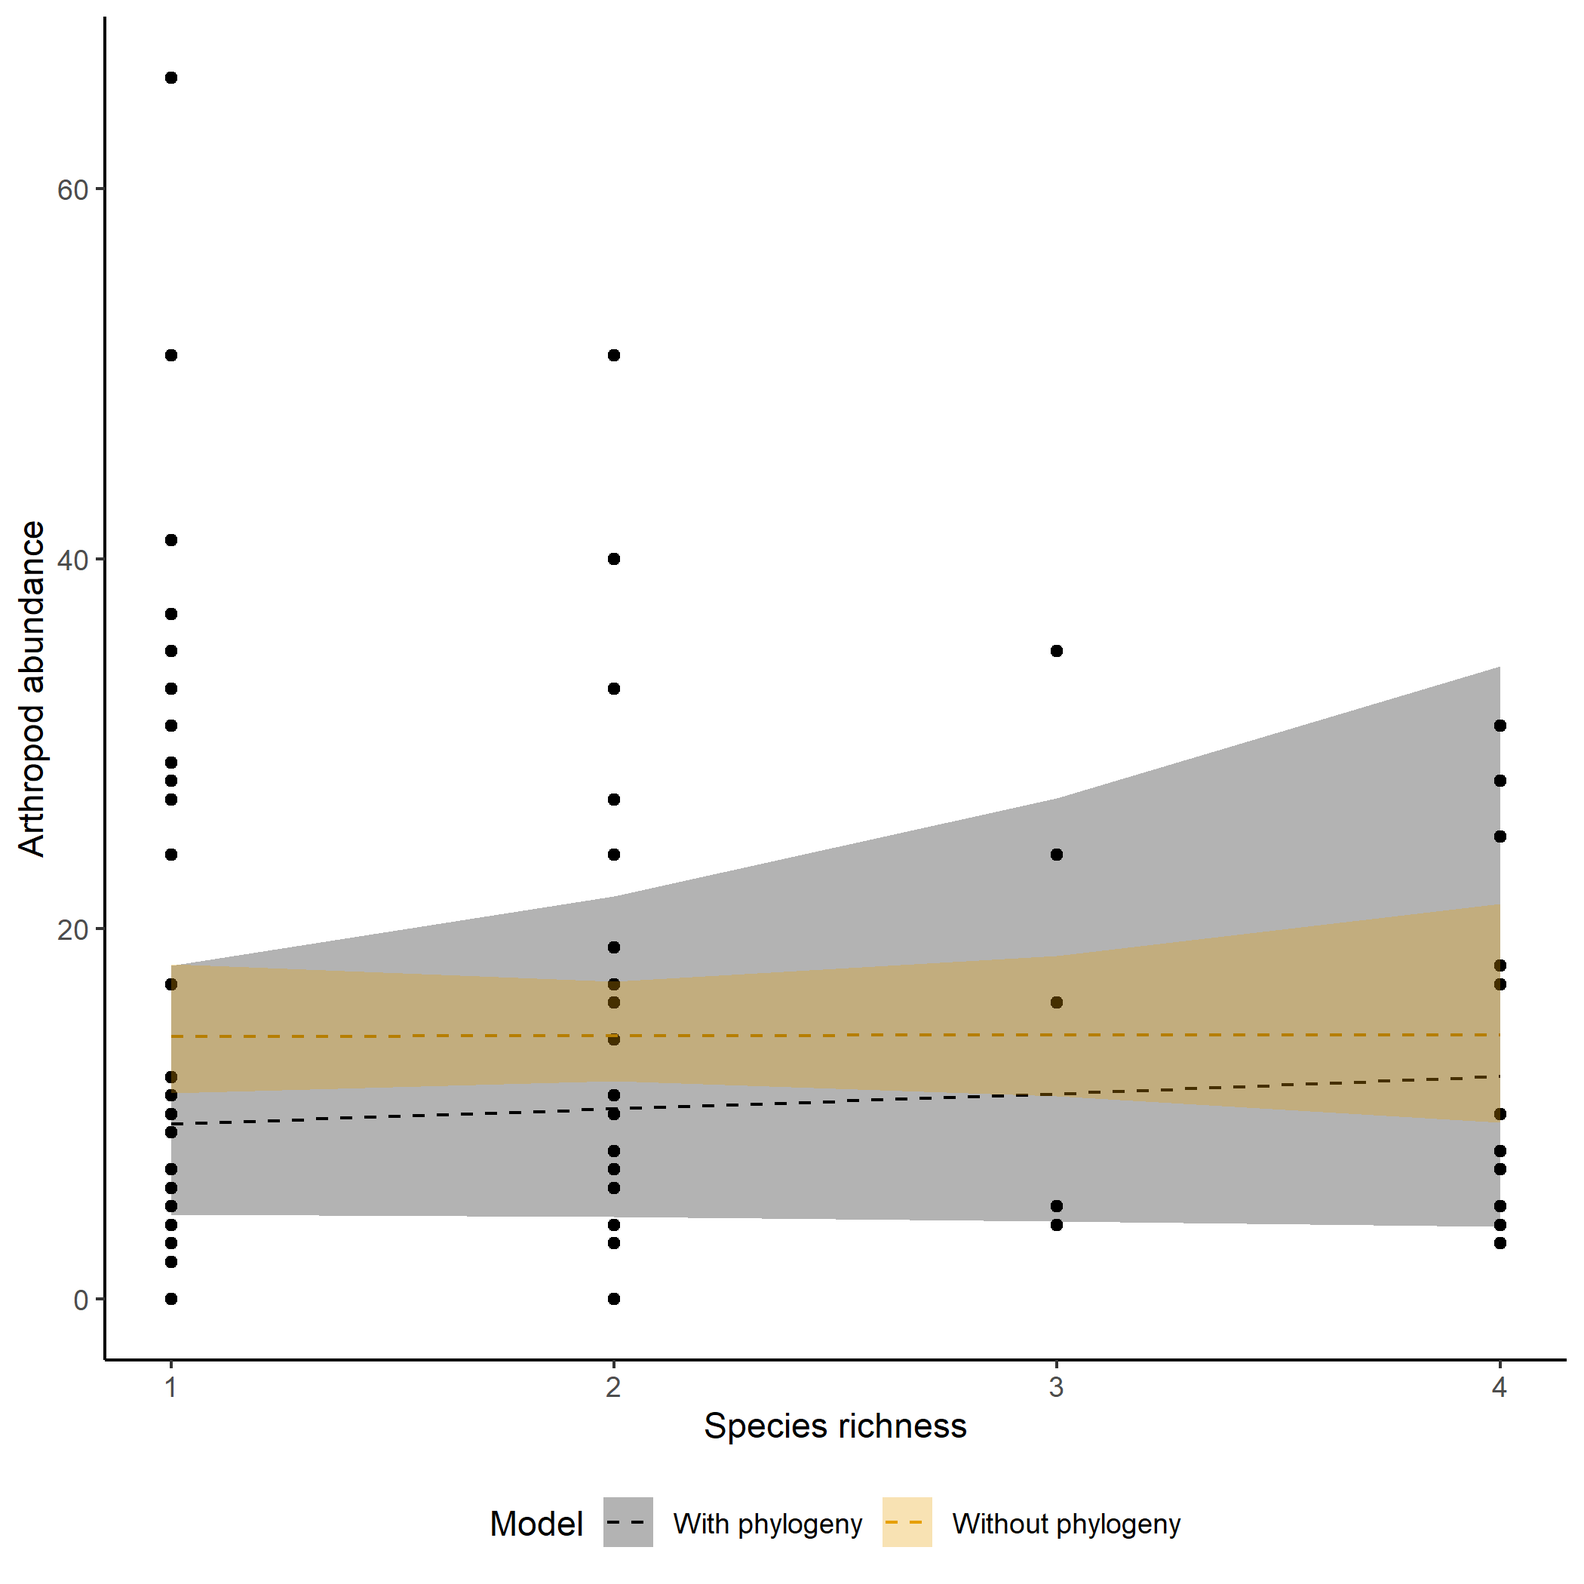
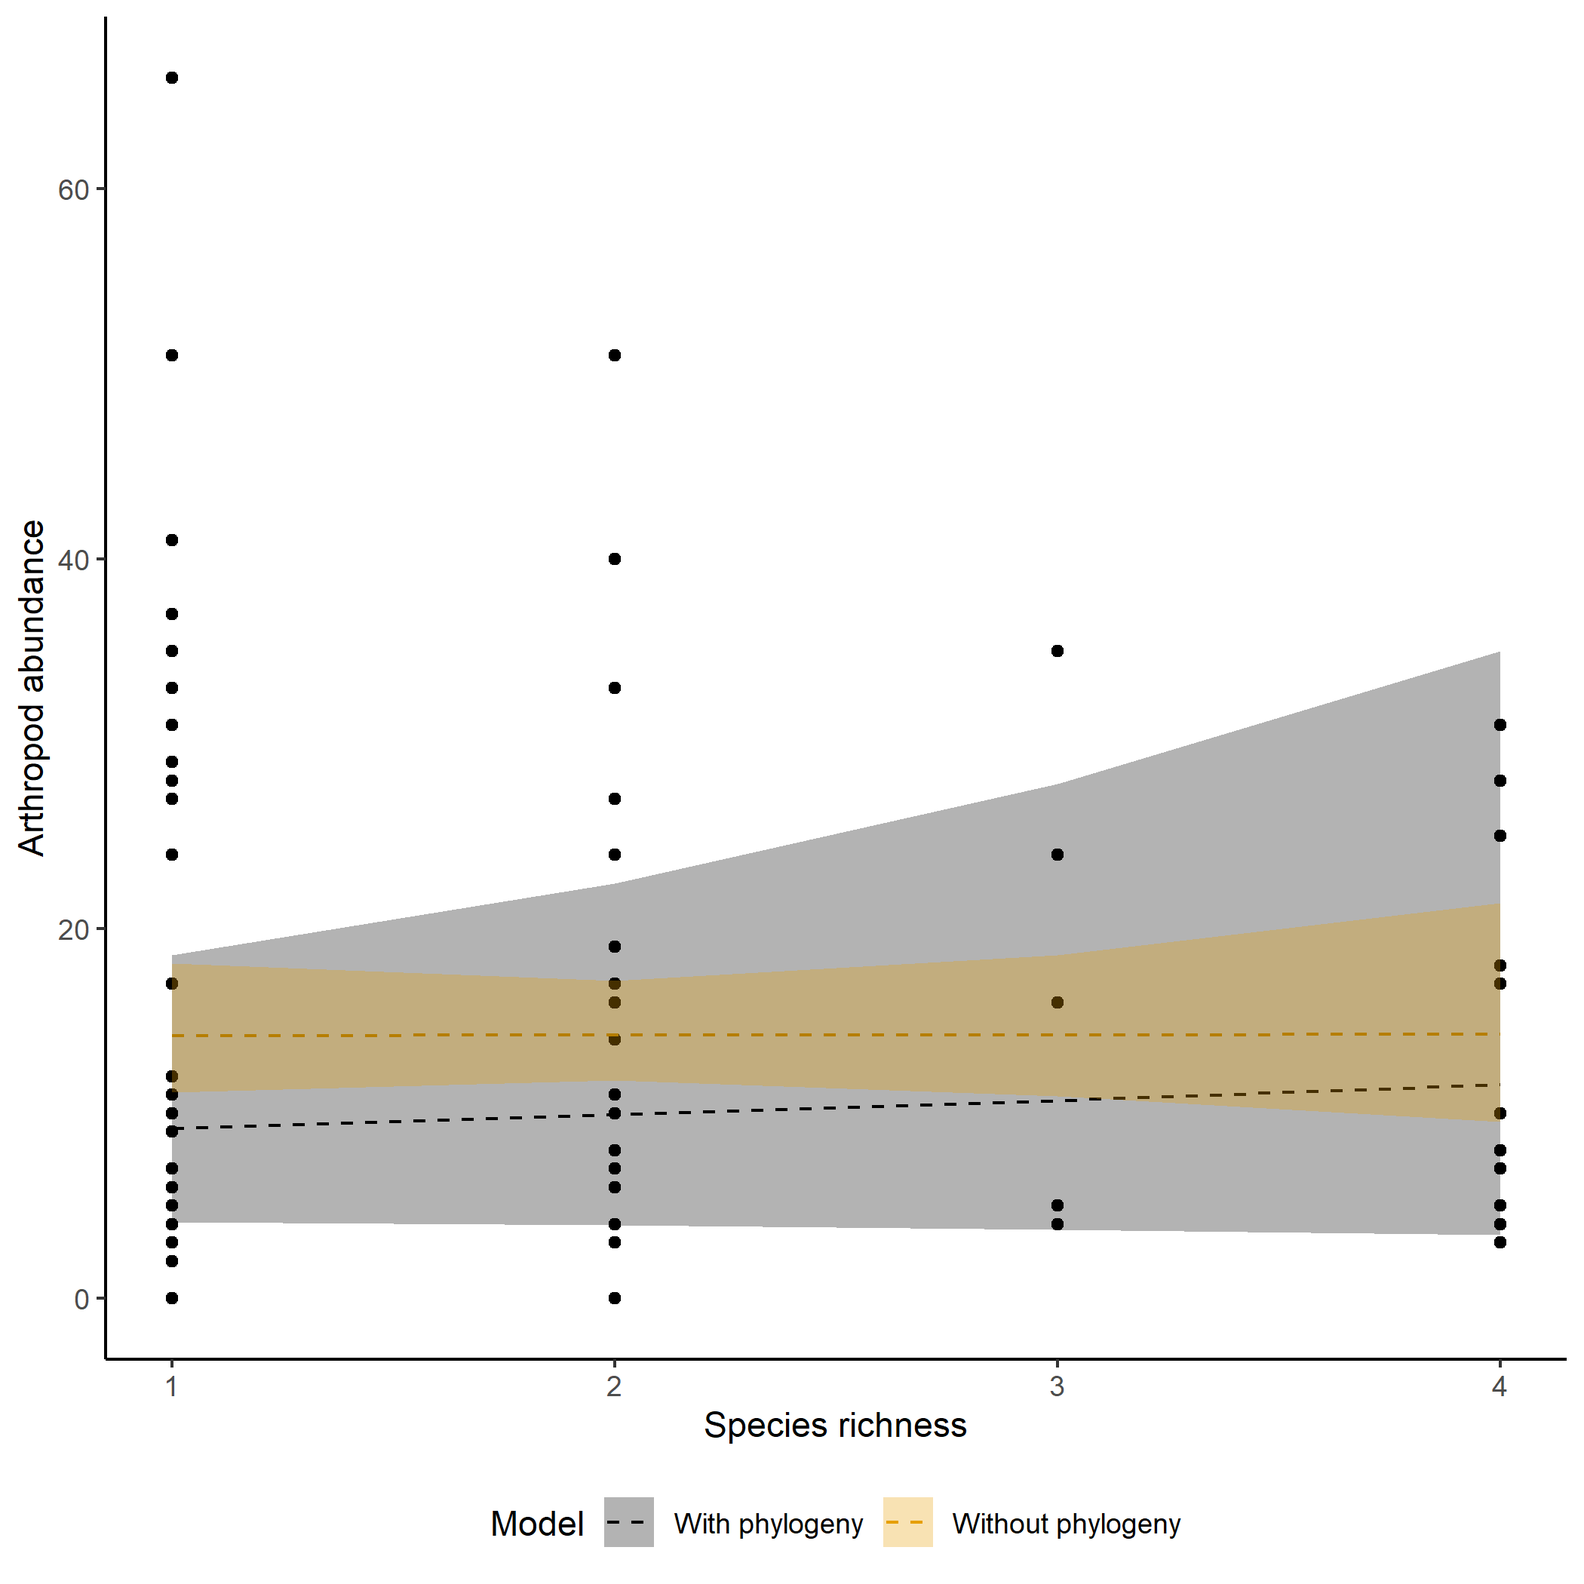
Deploying to gh-pages from @ tpaknok/CPR@dac1cd626a71c4d46f6db970332c0fb3c528580d 🚀

diff --git a/articles/Empirical_multiple.html b/articles/Empirical_multiple.html
@@ -201,22 +201,10 @@ will take some time to run!!!</p>
 <span><span class="co">#&gt; [1] "litter2012"</span></span>
 <span><span class="co">#&gt; [1] "ave.biomass"</span></span>
 <span><span class="co">#&gt; [1] "flwr_total"</span></span>
-<span><span class="co">#&gt; </span></span>
-<span><span class="co">#&gt;  *** inla.core.safe:  The inla program failed, but will rerun in case better initial values may help. try=1/1 </span></span>
-<span><span class="co">#&gt; </span></span>
-<span><span class="co">#&gt;  *** inla.core.safe:  rerun with improved initial values </span></span>
-<span><span class="co">#&gt; </span></span>
-<span><span class="co">#&gt;  *** inla.core.safe:  The inla program failed, but will rerun in case better initial values may help. try=1/1 </span></span>
-<span><span class="co">#&gt; </span></span>
-<span><span class="co">#&gt;  *** inla.core.safe:  rerun with improved initial values </span></span>
-<span><span class="co">#&gt; </span></span>
-<span><span class="co">#&gt;  *** inla.core.safe:  The inla program failed, but will rerun in case better initial values may help. try=1/1 </span></span>
-<span><span class="co">#&gt; </span></span>
-<span><span class="co">#&gt;  *** inla.core.safe:  rerun with improved initial values </span></span>
-<span><span class="co">#&gt; </span></span>
-<span><span class="co">#&gt;  *** inla.core.safe:  The inla program failed, but will rerun in case better initial values may help. try=1/1</span></span>
-<span><span class="co">#&gt; Error in inla.core.safe(formula = formula, family = family, contrasts = contrasts, : The inla program call crashed.</span></span>
-<span><span class="co">#&gt; The inla program failed and the maximum number of tries has been reached.</span></span></code></pre></div>
+<span><span class="co">#&gt; [1] "Mass.loss.2month"</span></span>
+<span><span class="co">#&gt; [1] "LAI"</span></span>
+<span><span class="co">#&gt; [1] "mean.N.change"</span></span>
+<span><span class="co">#&gt; [1] "Damage_effect"</span></span></code></pre></div>
 </div>
 <div class="section level2">
 <h2 id="visualizations">Visualizations<a class="anchor" aria-label="anchor" href="#visualizations"></a>
@@ -225,8 +213,7 @@ will take some time to run!!!</p>
 ecosystem functions, we need to extract the predictions from each
 model.</p>
 <div class="sourceCode" id="cb6"><pre class="downlit sourceCode r">
-<code class="sourceCode R"><span><span class="va">all_predictions</span> <span class="op">&lt;-</span> <span class="fu"><a href="https://rdrr.io/r/base/do.call.html" class="external-link">do.call</a></span><span class="op">(</span><span class="va">rbind</span>,<span class="fu"><a href="https://rdrr.io/r/base/lapply.html" class="external-link">sapply</a></span><span class="op">(</span><span class="fl">1</span><span class="op">:</span><span class="fl">10</span>, <span class="kw">function</span><span class="op">(</span><span class="va">x</span><span class="op">)</span> <span class="va">BEF_KSR</span><span class="op">[[</span><span class="va">x</span><span class="op">]</span><span class="op">]</span><span class="op">$</span><span class="va">prediction</span><span class="op">)</span><span class="op">)</span></span>
-<span><span class="co">#&gt; Error in FUN(X[[i]], ...): object 'BEF_KSR' not found</span></span></code></pre></div>
+<code class="sourceCode R"><span><span class="va">all_predictions</span> <span class="op">&lt;-</span> <span class="fu"><a href="https://rdrr.io/r/base/do.call.html" class="external-link">do.call</a></span><span class="op">(</span><span class="va">rbind</span>,<span class="fu"><a href="https://rdrr.io/r/base/lapply.html" class="external-link">sapply</a></span><span class="op">(</span><span class="fl">1</span><span class="op">:</span><span class="fl">10</span>, <span class="kw">function</span><span class="op">(</span><span class="va">x</span><span class="op">)</span> <span class="va">BEF_KSR</span><span class="op">[[</span><span class="va">x</span><span class="op">]</span><span class="op">]</span><span class="op">$</span><span class="va">prediction</span><span class="op">)</span><span class="op">)</span></span></code></pre></div>
 <p>To make a figure, I also need to restructure KSR_EF from a wide
 format to long format. Also, flower abundance ranged from 0-60000, so I
 presented the findings in log-scale (although in the analyses we did not
@@ -237,8 +224,7 @@ log transform it, as tweedie use log link).</p>
 <span>  <span class="fu"><a href="https://tidyr.tidyverse.org/reference/pivot_longer.html" class="external-link">pivot_longer</a></span><span class="op">(</span><span class="op">!</span><span class="va">Real.rich</span>,names_to<span class="op">=</span><span class="st">"response"</span><span class="op">)</span></span>
 <span></span>
 <span><span class="va">plot_data</span><span class="op">$</span><span class="va">value</span><span class="op">[</span><span class="va">plot_data</span><span class="op">$</span><span class="va">response</span> <span class="op">==</span> <span class="st">"flwr_total"</span><span class="op">]</span> <span class="op">&lt;-</span> <span class="fu"><a href="https://rdrr.io/r/base/Log.html" class="external-link">log</a></span><span class="op">(</span><span class="va">plot_data</span><span class="op">$</span><span class="va">value</span><span class="op">[</span><span class="va">plot_data</span><span class="op">$</span><span class="va">response</span> <span class="op">==</span> <span class="st">"flwr_total"</span><span class="op">]</span><span class="op">+</span><span class="fl">1</span><span class="op">)</span></span>
-<span><span class="va">all_predictions</span><span class="op">[</span><span class="va">all_predictions</span><span class="op">$</span><span class="va">response</span> <span class="op">==</span> <span class="st">"flwr_total"</span>,<span class="fu"><a href="https://rdrr.io/r/base/c.html" class="external-link">c</a></span><span class="op">(</span><span class="st">"0.5quant"</span>,<span class="st">"0.025quant"</span>,<span class="st">"0.975quant"</span><span class="op">)</span><span class="op">]</span> <span class="op">&lt;-</span> <span class="fu"><a href="https://rdrr.io/r/base/Log.html" class="external-link">log</a></span><span class="op">(</span><span class="va">all_predictions</span><span class="op">[</span><span class="va">all_predictions</span><span class="op">$</span><span class="va">response</span> <span class="op">==</span> <span class="st">"flwr_total"</span>,<span class="fu"><a href="https://rdrr.io/r/base/c.html" class="external-link">c</a></span><span class="op">(</span><span class="st">"0.5quant"</span>,<span class="st">"0.025quant"</span>,<span class="st">"0.975quant"</span><span class="op">)</span><span class="op">]</span><span class="op">+</span><span class="fl">1</span><span class="op">)</span></span>
-<span><span class="co">#&gt; Error in eval(expr, envir, enclos): object 'all_predictions' not found</span></span></code></pre></div>
+<span><span class="va">all_predictions</span><span class="op">[</span><span class="va">all_predictions</span><span class="op">$</span><span class="va">response</span> <span class="op">==</span> <span class="st">"flwr_total"</span>,<span class="fu"><a href="https://rdrr.io/r/base/c.html" class="external-link">c</a></span><span class="op">(</span><span class="st">"0.5quant"</span>,<span class="st">"0.025quant"</span>,<span class="st">"0.975quant"</span><span class="op">)</span><span class="op">]</span> <span class="op">&lt;-</span> <span class="fu"><a href="https://rdrr.io/r/base/Log.html" class="external-link">log</a></span><span class="op">(</span><span class="va">all_predictions</span><span class="op">[</span><span class="va">all_predictions</span><span class="op">$</span><span class="va">response</span> <span class="op">==</span> <span class="st">"flwr_total"</span>,<span class="fu"><a href="https://rdrr.io/r/base/c.html" class="external-link">c</a></span><span class="op">(</span><span class="st">"0.5quant"</span>,<span class="st">"0.025quant"</span>,<span class="st">"0.975quant"</span><span class="op">)</span><span class="op">]</span><span class="op">+</span><span class="fl">1</span><span class="op">)</span></span></code></pre></div>
 <p>Now just some ggplot2 code, and this is how the figure in Tsang et
 al. (2024) was produced.</p>
 <div class="sourceCode" id="cb8"><pre class="downlit sourceCode r">
@@ -254,10 +240,12 @@ al. (2024) was produced.</p>
 <span>  <span class="fu"><a href="https://ggplot2.tidyverse.org/reference/scale_manual.html" class="external-link">scale_colour_manual</a></span><span class="op">(</span>values<span class="op">=</span><span class="fu"><a href="https://rdrr.io/r/base/c.html" class="external-link">c</a></span><span class="op">(</span><span class="st">"#000000"</span>,<span class="st">"#E69F00"</span><span class="op">)</span><span class="op">)</span><span class="op">+</span></span>
 <span>  <span class="fu"><a href="https://ggplot2.tidyverse.org/reference/scale_manual.html" class="external-link">scale_fill_manual</a></span><span class="op">(</span>values<span class="op">=</span><span class="fu"><a href="https://rdrr.io/r/base/c.html" class="external-link">c</a></span><span class="op">(</span><span class="st">"#000000"</span>,<span class="st">"#E69F00"</span><span class="op">)</span><span class="op">)</span><span class="op">+</span></span>
 <span>  <span class="fu"><a href="https://ggplot2.tidyverse.org/reference/theme.html" class="external-link">theme</a></span><span class="op">(</span>legend.position<span class="op">=</span><span class="st">"bottom"</span><span class="op">)</span></span>
-<span><span class="co">#&gt; Error in eval(expr, envir, enclos): object 'all_predictions' not found</span></span>
 <span></span>
-<span><span class="fu"><a href="https://rdrr.io/r/graphics/plot.default.html" class="external-link">plot</a></span><span class="op">(</span><span class="va">p</span><span class="op">)</span></span>
-<span><span class="co">#&gt; Error in h(simpleError(msg, call)): error in evaluating the argument 'x' in selecting a method for function 'plot': object 'p' not found</span></span></code></pre></div>
+<span><span class="fu"><a href="https://rdrr.io/r/graphics/plot.default.html" class="external-link">plot</a></span><span class="op">(</span><span class="va">p</span><span class="op">)</span></span></code></pre></div>
+<div class="float">
+<img src="figure/ggplot2,%20-1.png" style="width:100.0%" alt="Predicted effects of species richness on the ten selected ecosystem functions"><div class="figcaption">Predicted effects of species richness on the ten
+selected ecosystem functions</div>
+</div>
 </div>
   </main><aside class="col-md-3"><nav id="toc"><h2>On this page</h2>
     </nav></aside>

diff --git a/articles/Empirical_single.html b/articles/Empirical_single.html
@@ -253,11 +253,11 @@ while to run! So be patient!</p>
 <span><span class="co">#&gt;    silent, ", " inla.mode = inla.mode, safe = FALSE, debug = debug, .parent.frame = </span></span>
 <span><span class="co">#&gt;    .parent.frame)" ) </span></span>
 <span><span class="co">#&gt; Time used:</span></span>
-<span><span class="co">#&gt;     Pre = 0.276, Running = 0.306, Post = 0.202, Total = 0.784 </span></span>
+<span><span class="co">#&gt;     Pre = 0.227, Running = 0.248, Post = 0.163, Total = 0.638 </span></span>
 <span><span class="co">#&gt; Fixed effects:</span></span>
 <span><span class="co">#&gt;              mean    sd 0.025quant 0.5quant 0.975quant  mode kld</span></span>
-<span><span class="co">#&gt; (Intercept) 2.223 0.221      1.780    2.225      2.650 2.225   0</span></span>
-<span><span class="co">#&gt; Real.rich   0.091 0.092     -0.088    0.090      0.273 0.090   0</span></span>
+<span><span class="co">#&gt; (Intercept) 2.129 0.344      1.419    2.140      2.775 2.140   0</span></span>
+<span><span class="co">#&gt; Real.rich   0.076 0.097     -0.116    0.076      0.267 0.076   0</span></span>
 <span><span class="co">#&gt; </span></span>
 <span><span class="co">#&gt; Random effects:</span></span>
 <span><span class="co">#&gt;   Name     Model</span></span>
@@ -265,13 +265,13 @@ while to run! So be patient!</p>
 <span><span class="co">#&gt; </span></span>
 <span><span class="co">#&gt; Model hyperparameters:</span></span>
 <span><span class="co">#&gt;                                                        mean    sd 0.025quant 0.5quant 0.975quant mode</span></span>
-<span><span class="co">#&gt; size for the nbinomial observations (1/overdispersion) 2.51 0.504       1.66     2.46       3.64 2.36</span></span>
-<span><span class="co">#&gt; Precision for comm                                     4.20 2.144       1.46     3.74       9.65 2.96</span></span>
+<span><span class="co">#&gt; size for the nbinomial observations (1/overdispersion) 2.54 0.514      1.675     2.48       3.69 2.38</span></span>
+<span><span class="co">#&gt; Precision for comm                                     2.48 1.356      0.808     2.18       5.97 1.68</span></span>
 <span><span class="co">#&gt; </span></span>
-<span><span class="co">#&gt; Watanabe-Akaike information criterion (WAIC) ...: 618.55</span></span>
-<span><span class="co">#&gt; Effective number of parameters .................: 12.05</span></span>
+<span><span class="co">#&gt; Watanabe-Akaike information criterion (WAIC) ...: 617.33</span></span>
+<span><span class="co">#&gt; Effective number of parameters .................: 11.80</span></span>
 <span><span class="co">#&gt; </span></span>
-<span><span class="co">#&gt; Marginal log-Likelihood:  -884.01 </span></span>
+<span><span class="co">#&gt; Marginal log-Likelihood:  -866.36 </span></span>
 <span><span class="co">#&gt;  is computed </span></span>
 <span><span class="co">#&gt; Posterior summaries for the linear predictor and the fitted values are computed</span></span>
 <span><span class="co">#&gt; (Posterior marginals needs also 'control.compute=list(return.marginals.predictor=TRUE)')</span></span></code></pre></div>
@@ -293,7 +293,7 @@ different diagnostics.</p>
 <span>                           integerResponse <span class="op">=</span> <span class="cn">T</span><span class="op">)</span></span>
 <span><span class="fu"><a href="https://rdrr.io/r/graphics/plot.default.html" class="external-link">plot</a></span><span class="op">(</span><span class="va">DHARMa_res</span>,quantreg<span class="op">=</span><span class="cn">F</span><span class="op">)</span></span></code></pre></div>
 <div class="float">
-<img src="figure/Diagnostic-1.png" alt="Outputs from DHARMa for the negative binomial model"><div class="figcaption">Outputs from DHARMa for the negative binomial
+<img src="figure/Diagnostic-1.png" style="width:100.0%" alt="Outputs from DHARMa for the negative binomial model"><div class="figcaption">Outputs from DHARMa for the negative binomial
 model</div>
 </div>
 <p>You can see that our data don’t deviate a lot from the expected line
@@ -332,11 +332,11 @@ default settings in INLA.</p>
 <span><span class="co">#&gt;    silent, ", " inla.mode = inla.mode, safe = FALSE, debug = debug, .parent.frame = </span></span>
 <span><span class="co">#&gt;    .parent.frame)" ) </span></span>
 <span><span class="co">#&gt; Time used:</span></span>
-<span><span class="co">#&gt;     Pre = 0.262, Running = 0.215, Post = 0.0831, Total = 0.56 </span></span>
+<span><span class="co">#&gt;     Pre = 0.219, Running = 0.199, Post = 0.0739, Total = 0.492 </span></span>
 <span><span class="co">#&gt; Fixed effects:</span></span>
 <span><span class="co">#&gt;              mean    sd 0.025quant 0.5quant 0.975quant  mode kld</span></span>
-<span><span class="co">#&gt; (Intercept) 2.024 0.247      1.528    2.027      2.501 2.027   0</span></span>
-<span><span class="co">#&gt; Real.rich   0.024 0.062     -0.099    0.024      0.145 0.024   0</span></span>
+<span><span class="co">#&gt; (Intercept) 2.013 0.250      1.513    2.016      2.496 2.016   0</span></span>
+<span><span class="co">#&gt; Real.rich   0.024 0.061     -0.098    0.024      0.143 0.024   0</span></span>
 <span><span class="co">#&gt; </span></span>
 <span><span class="co">#&gt; Random effects:</span></span>
 <span><span class="co">#&gt;   Name     Model</span></span>
@@ -344,12 +344,12 @@ default settings in INLA.</p>
 <span><span class="co">#&gt; </span></span>
 <span><span class="co">#&gt; Model hyperparameters:</span></span>
 <span><span class="co">#&gt;                    mean    sd 0.025quant 0.5quant 0.975quant mode</span></span>
-<span><span class="co">#&gt; Precision for comm 1.64 0.624      0.673     1.55       3.09 1.38</span></span>
+<span><span class="co">#&gt; Precision for comm 1.55 0.592      0.638     1.47       2.93 1.31</span></span>
 <span><span class="co">#&gt; </span></span>
 <span><span class="co">#&gt; Watanabe-Akaike information criterion (WAIC) ...: 872.66</span></span>
-<span><span class="co">#&gt; Effective number of parameters .................: 69.32</span></span>
+<span><span class="co">#&gt; Effective number of parameters .................: 69.38</span></span>
 <span><span class="co">#&gt; </span></span>
-<span><span class="co">#&gt; Marginal log-Likelihood:  -972.61 </span></span>
+<span><span class="co">#&gt; Marginal log-Likelihood:  -972.14 </span></span>
 <span><span class="co">#&gt;  is computed </span></span>
 <span><span class="co">#&gt; Posterior summaries for the linear predictor and the fitted values are computed</span></span>
 <span><span class="co">#&gt; (Posterior marginals needs also 'control.compute=list(return.marginals.predictor=TRUE)')</span></span>
@@ -361,7 +361,7 @@ default settings in INLA.</p>
 <span>                           integerResponse<span class="op">=</span><span class="cn">T</span><span class="op">)</span></span>
 <span><span class="fu"><a href="https://rdrr.io/r/graphics/plot.default.html" class="external-link">plot</a></span><span class="op">(</span><span class="va">DHARMa_res2</span>,quantreg<span class="op">=</span><span class="cn">F</span><span class="op">)</span></span></code></pre></div>
 <div class="float">
-<img src="figure/gaussian-1.png" alt="Outputs from DHARMa for the poisson model"><div class="figcaption">Outputs from DHARMa for the poisson model</div>
+<img src="figure/gaussian-1.png" style="width:100.0%" alt="Outputs from DHARMa for the poisson model"><div class="figcaption">Outputs from DHARMa for the poisson model</div>
 </div>
 <p>Clearly a worse fit than negative binomial! We knew that poisson
 distributions often fail to describe ecological data properly.</p>
@@ -406,7 +406,7 @@ treatments.</p>
 <span></span>
 <span><span class="fu"><a href="https://rdrr.io/r/graphics/plot.default.html" class="external-link">plot</a></span><span class="op">(</span><span class="va">p</span><span class="op">)</span></span></code></pre></div>
 <div class="float">
-<img src="figure/bugs-1.png" alt="Predicted effects of species richness on arthropod abundance"><div class="figcaption">Predicted effects of species richness on
+<img src="figure/bugs-1.png" style="width:100.0%" alt="Predicted effects of species richness on arthropod abundance"><div class="figcaption">Predicted effects of species richness on
 arthropod abundance</div>
 </div>
 </div>
